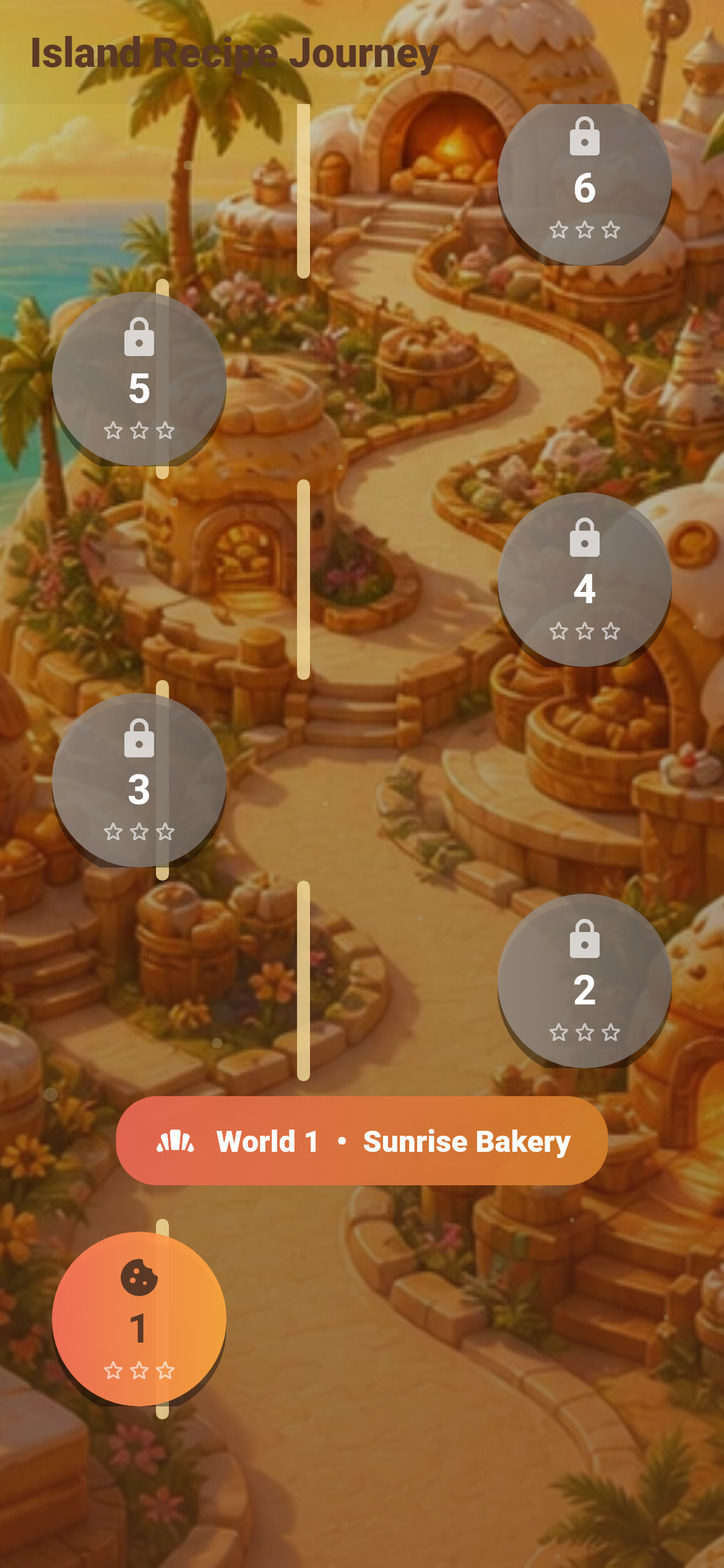
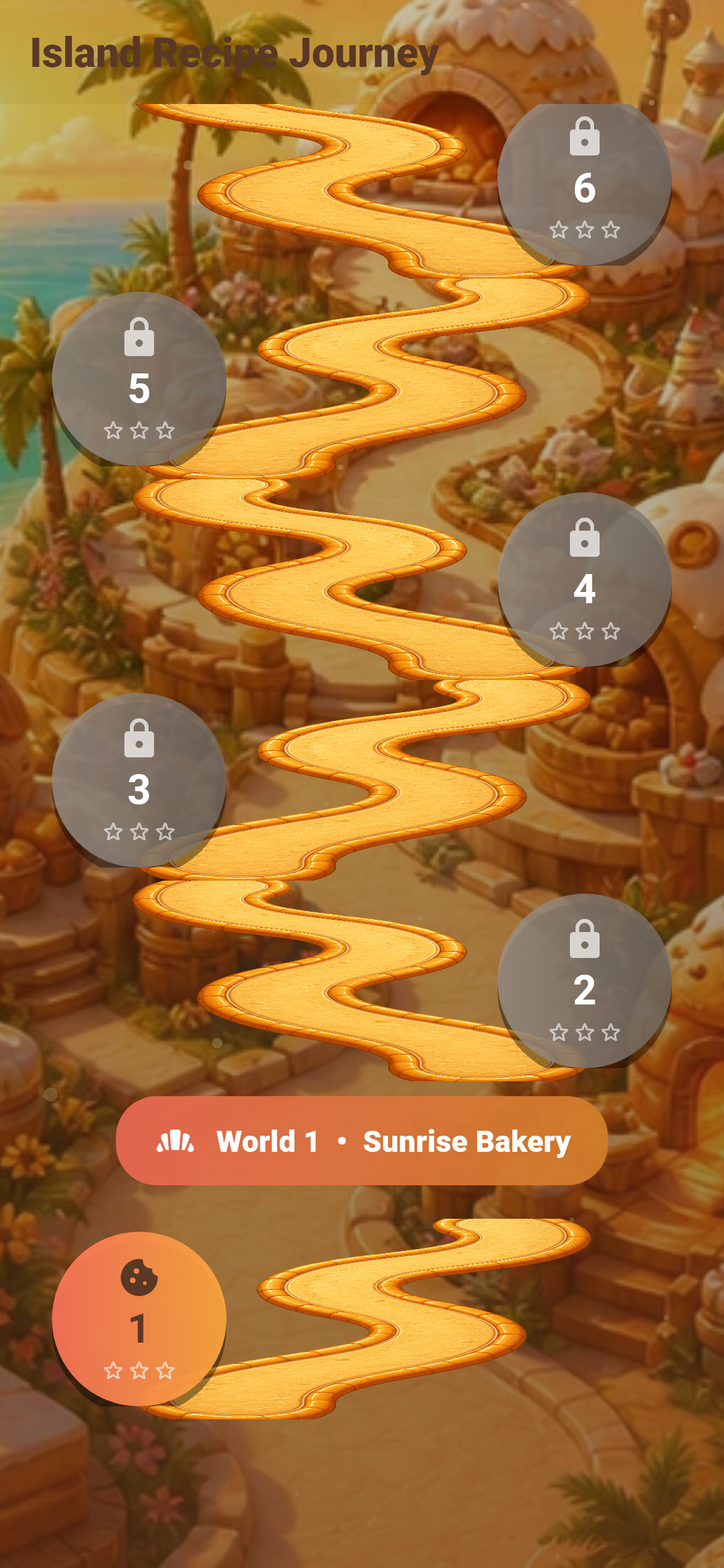
Add illustrated road to level journey

diff --git a/lib/features/level_map/presentation/level_map_screen.dart b/lib/features/level_map/presentation/level_map_screen.dart
@@ -151,21 +151,18 @@ class _LevelMapScreenState extends ConsumerState<LevelMapScreen>
                             height: 108,
                             child: Stack(
                               children: [
-                                Positioned(
-                                  left: index.isEven ? 56 : 132,
-                                  top: 0,
-                                  bottom: 0,
-                                  child: Container(
-                                    width: 7,
-                                    decoration: BoxDecoration(
-                                      color: const Color(0xCCFFE3A0),
-                                      borderRadius: BorderRadius.circular(99),
-                                      boxShadow: const [
-                                        BoxShadow(
-                                          color: Colors.black26,
-                                          blurRadius: 5,
-                                        ),
-                                      ],
+                                Positioned.fill(
+                                  left: 20,
+                                  right: 20,
+                                  top: -8,
+                                  bottom: -8,
+                                  child: Transform.flip(
+                                    flipX: index.isOdd,
+                                    child: Image.asset(
+                                      'assets/images/worlds/level_road_segment.png',
+                                      fit: BoxFit.fill,
+                                      filterQuality: FilterQuality.high,
+                                      semanticLabel: 'Golden bakery road',
                                     ),
                                   ),
                                 ),

diff --git a/test/services/asset_pipeline_test.dart b/test/services/asset_pipeline_test.dart
@@ -15,10 +15,10 @@ void main() {
         .where((path) => path.startsWith('assets/'))
         .toList();
 
-    expect(assets, hasLength(207));
+    expect(assets, hasLength(208));
     expect(assets.where((path) => path.endsWith('.svg')), hasLength(33));
     expect(assets.where((path) => path.endsWith('.wav')), hasLength(26));
-    expect(assets.where((path) => path.endsWith('.png')), hasLength(21));
+    expect(assets.where((path) => path.endsWith('.png')), hasLength(22));
     expect(assets.where((path) => path.endsWith('.webp')), hasLength(6));
     expect(assets.where((path) => path.endsWith('.json')), hasLength(121));
 
@@ -53,6 +53,7 @@ void main() {
       ]) {
         expect(assets, contains('assets/images/worlds/$id.webp'));
       }
+      expect(assets, contains('assets/images/worlds/level_road_segment.png'));
       expect(assets, contains('assets/images/effects/match_burst_sheet.png'));
       expect(assets, contains('assets/images/specials/peanut_kisses.png'));
     },

diff --git a/PROGRESS.md b/PROGRESS.md
@@ -119,6 +119,7 @@ Current phase: Phase 13 (completed)
 - Extended world artwork behind a compact glass gameplay header with modern world, level, back, and pause controls
 - Reversed the adventure path into an upward climb and hid future worlds behind looping secret-cloud gates until the current 20-level world is complete
 - Added home feature highlights and a visible fade-and-fall animation when a dead board automatically rearranges into a playable layout
+- Replaced the level-selection connector lines with an original AI-generated golden bakery road sprite, mirrored between alternating level nodes
 
 ## In Progress
 
@@ -138,9 +139,9 @@ Current phase: Phase 13 (completed)
 - `flutter build apk --debug`: passed (`build/app/outputs/flutter-apk/app-debug.apk`, 157,010,839 bytes)
[1 lines of base64/hex data omitted]
 - `flutter build web --release`: passed (`build/web`, `main.dart.js` 2,961,872 bytes)
-- `flutter build apk --release`: passed (`build/app/outputs/flutter-apk/app-release.apk`, 67,295,161 bytes)
[1 lines of base64/hex data omitted]
-- Production asset catalog: 207 files, including 26 WAV, 21 PNG, 6 WebP, and 121 JSON files
+- `flutter build apk --release`: passed (`build/app/outputs/flutter-apk/app-release.apk`, 68,351,612 bytes)
[1 lines of base64/hex data omitted]
+- Production asset catalog: 208 files, including 26 WAV, 22 PNG, 6 WebP, and 121 JSON files
 - Unresolved TODO audit: no project-owned TODOs; only Flutter-generated Linux/Windows runner comments remain
 
 ## Known Issues
